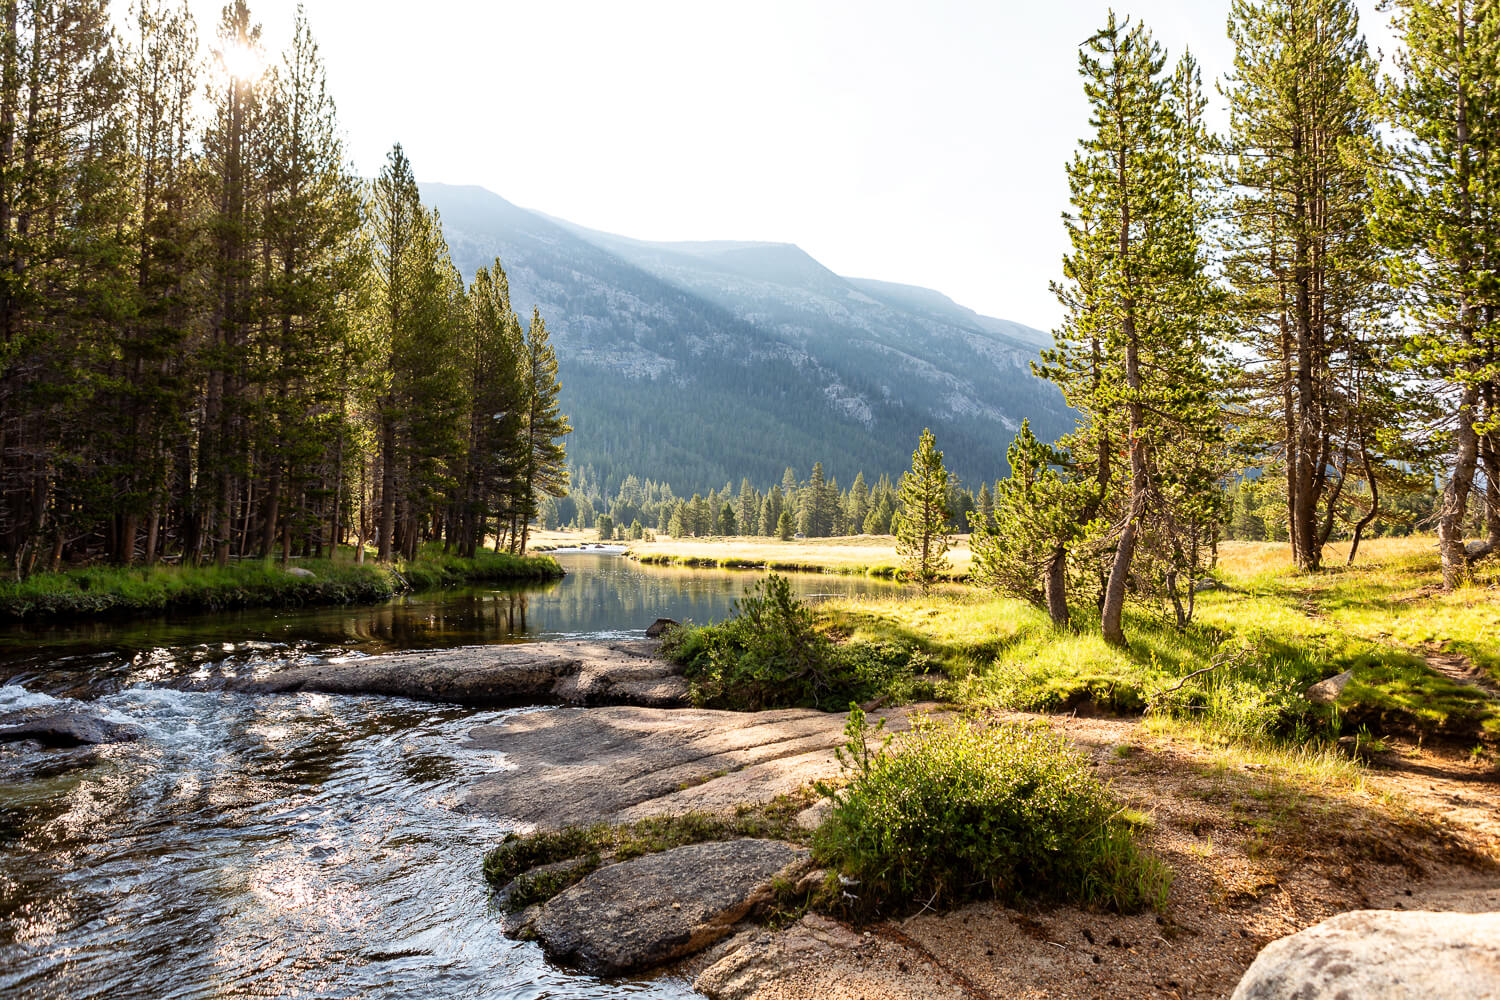
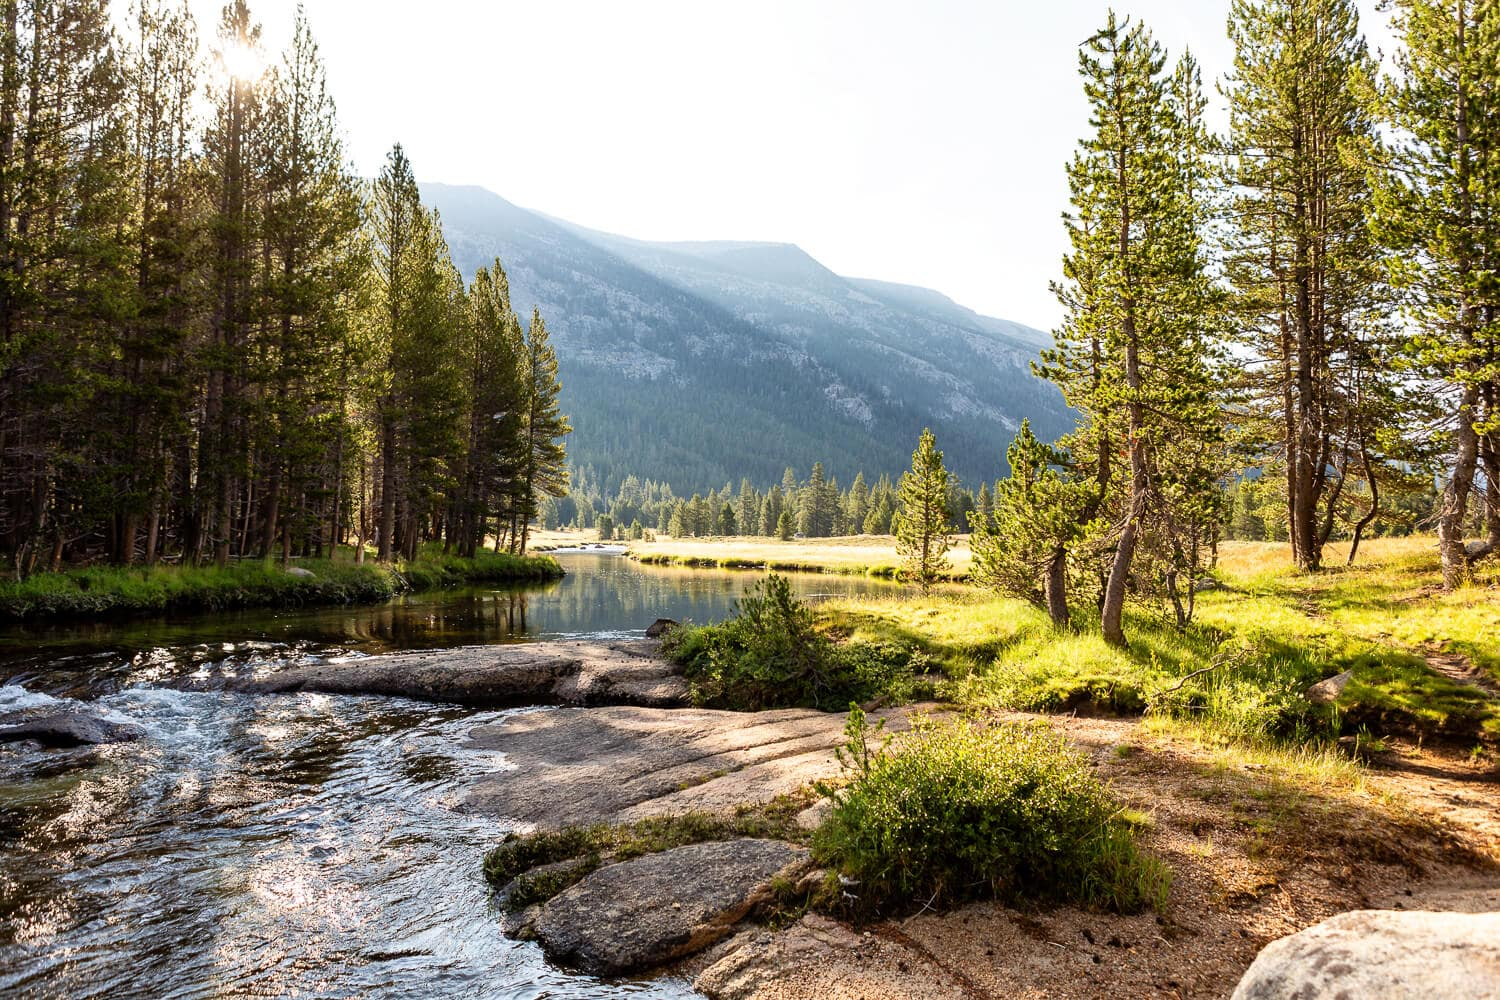
fixed search; compressed some index images; updated font families;

diff --git a/pages/search.vue b/pages/search.vue
@@ -16,8 +16,8 @@
         </v-row>
         <v-row v-else-if="results.length && !loading">
           <image-card
-            v-for="result in results"
-            :key="result.id"
+            v-for="(result, index) in results"
+            :key="index"
             :item="result"
             btn-text="View"
             item-type="images" />
@@ -37,7 +37,8 @@
 
 <script>
   import { mapState } from 'vuex';
-  import query from '~/apollo/queries/search/search';
+  import searchImages from '~/apollo/queries/search/searchImages';
+  import searchTags from '~/apollo/queries/search/searchTags';
   import ImageCard from '~/components/ImageCard';
   import PageTitle from '~/components/PageTitle';
   import Spinner from '~/components/Spinner';
@@ -62,18 +63,24 @@
 
     methods: {
       async performSearch() {
-        this.$apollo.query({
-          query,
+
+        const { data: { images: tagsData }} = await this.$apollo.query({
+          query: searchTags,
           variables: {
             searchQuery: this.query,
           }
-        })
-          .then(({ data: { images } }) => {
-            if (images && images.length) this.results = images;
-            else this.error = 'No results were found. Please try again.';
-          })
-          .catch(err => console.error(err))
-          .then(() => this.loading = false);
+        });
+
+        const { data: { images: imagesData }} = await this.$apollo.query({
+          query: searchImages,
+          variables: {
+            searchQuery: this.query,
+          }
+        });
+
+        if (!tagsData.length && !imagesData.length) this.error = 'No results were found. Please try again.';
+        else this.results = [...tagsData, ...imagesData];
+        this.loading = false;
       }
     },
 

diff --git a/nuxt.config.js b/nuxt.config.js
@@ -52,8 +52,8 @@ export default {
       { rel: 'icon', type: 'image/png', sizes: '16x16', href: '/favicon-16x16.png' },
       { rel: 'manifest', href: '/site.webmanifest' },
       { rel: 'canonical', href: 'https://www.jimmiejacksonphotography.com' },
-      { rel: 'stylesheet', href: 'https://fonts.googleapis.com/css2?family=Open+Sans:wght@600;700;800&display=swap' },
-      { rel: 'stylesheet', href: 'https://fonts.googleapis.com/css2?family=Exo+2:wght@500;600;700;800;900&display=swap' }
+      { rel: 'stylesheet', href: 'https://fonts.googleapis.com/css2?family=Open+Sans:wght@300;400;600;700;800&display=swap' },
+      { rel: 'stylesheet', href: 'https://fonts.googleapis.com/css2?family=Comfortaa:wght@400;500;700&display=swap' }
     ]
   },
   /*
@@ -76,7 +76,6 @@ export default {
   plugins: [
     { src: '~/plugins/vuex-persist', mode: 'client' },
     { src: '~/plugins/vue-unicons', mode: 'client' },
-    // { src: '~/plugins/masonry', mode: 'client' },
     { src: '~/plugins/cloudinary', mode: 'client' },
     '~/plugins/axios',
     '~/plugins/custom-icons',
@@ -97,9 +96,7 @@ export default {
    ** Nuxt.js modules
    */
   modules: [
-    // Doc: https://axios.nuxtjs.org/usage
     '@nuxtjs/axios',
-    // Doc: https://github.com/nuxt-community/dotenv-module
     '@nuxtjs/dotenv',
     '@nuxtjs/apollo'
   ],

diff --git a/components/Drawer.vue b/components/Drawer.vue
@@ -13,8 +13,9 @@
     <v-list
       color="white"
       shaped>
-      <!-- <v-list-item>
+      <v-list-item>
         <v-text-field
+          v-model="query"
           label="Search"
           outlined
           clearable
@@ -37,7 +38,7 @@
             </v-btn>
           </template>
         </v-text-field>
-      </v-list-item> -->
+      </v-list-item>
       <v-list-item
         v-for="item in items"
         :key="item.title"
@@ -67,6 +68,8 @@
 </template>
 
 <script>
+  import { mapActions } from 'vuex';
+
   export default {
     name: 'HomeDrawer',
 
@@ -81,9 +84,18 @@
       },
     },
 
+    data: () => ({
+      query: '',
+    }),
+
     methods: {
+      ...mapActions('search', ['setQuery']),
       performSearch() {
-        this.$emit('handle-search');
+        this.setQuery(this.query);
+
+        // have to refresh page if user is already on search page
+        if (this.$router.currentRoute.name === 'search') this.$router.go();
+        else this.$router.push({ name: 'search' });
       },
     },
   }

diff --git a/components/ImageCard.vue b/components/ImageCard.vue
@@ -15,7 +15,7 @@
         <div class="overlay">
           <h3
             v-if="itemType === 'galleries'"
-            class="display-3 text--white gallery-name">
+            class="display-2 text--white gallery-name">
             {{ item.name }}
           </h3>
           <div class="btn-wrapper">
@@ -112,10 +112,13 @@
     }
 
     .gallery-name {
-      font-family: 'Exo 2', serif !important;
+      font-family: 'Avenir Next', serif !important;
       font-weight: 500;
+      line-height: 1.1;
       margin-bottom: 1rem;
-      text-shadow: 1px 1px 1px rgba(0, 0, 0, .9);
+      text-align: center;
+      text-shadow: 2px 2px 3px rgba(0, 0, 0, 0.5);
+      text-transform: uppercase;
     }
 
     &:hover {

diff --git a/layouts/default.vue b/layouts/default.vue
@@ -45,7 +45,7 @@
             </template>
           </v-text-field>
         </transition>
-        <!-- <transition
+        <transition
           name="fade"
           mode="out-in">
           <v-btn
@@ -74,7 +74,7 @@
               height="20px"
               width="20px" />
           </v-btn>
-        </transition> -->
+        </transition>
         <v-tabs
           class="hidden-sm-and-down"
           :style="{ width: 'auto' }"
@@ -112,8 +112,7 @@
     <home-drawer
       v-model="drawer"
       :items="items"
-      :cart-items="cartItems"
-      @handle-search="performSearch" />
+      :cart-items="cartItems" />
 
     <v-main>
       <transition

diff --git a/css/variables.scss b/css/variables.scss
@@ -2,7 +2,8 @@
 
 $font-size-root: 10px;
 $body-font-family: 'Avenir Next', 'Lato', Roboto, 'Helvetica Neue', sans-serif !default;
-$heading-font-family: 'Exo 2', 'Lato', Roboto, 'Helvetica Neue', sans-serif !default;
+$heading-font-family: 'Avenir Next', 'Lato', Roboto, 'Helvetica Neue',
+  sans-serif !default;
 $headings: (
   'h1': (
     // 'size': 6rem,

diff --git a/pages/index.vue b/pages/index.vue
@@ -147,7 +147,7 @@
           }
 
           a {
-            font-family: 'Exo 2', serif !important;
+            font-family: 'Comfortaa', serif !important;
             font-weight: 500;
           }
         }

diff --git a/components/PageTitle.vue b/components/PageTitle.vue
@@ -124,6 +124,7 @@
 
     .page-title {
       flex-grow: 1;
+      font-family: 'Comfortaa', sans-serif !important;
       font-weight: 400;
     }
   }
